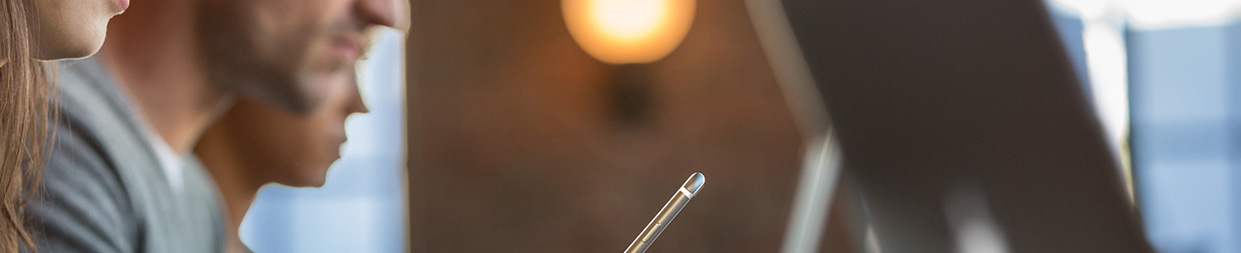
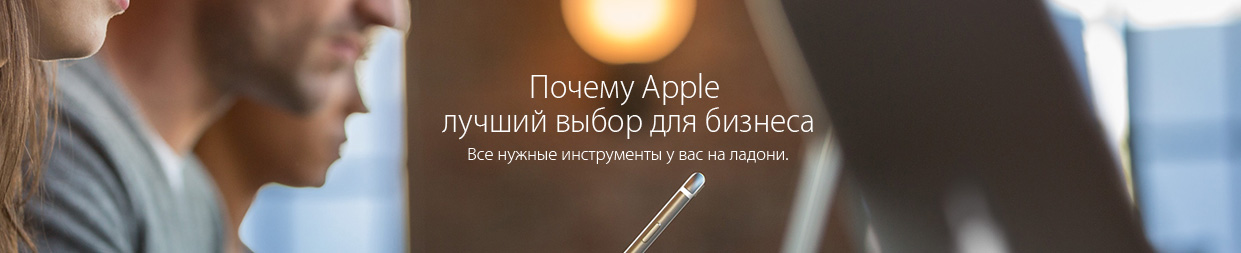
first release

Changed region(s): [[0.3368, 0.4427, 0.6737, 0.5257], [0.3674, 0.581, 0.643, 0.6364], [0.4287, 0.2767, 0.5818, 0.415]]

diff --git a/index.html b/index.html
@@ -4,21 +4,114 @@
   <meta charset="utf-8">
   <title>Почему Apple лучший выбор для бизнеса</title>
   
-  <link rel="stylesheet" href="css/normalize.css">
   <link rel="stylesheet" href="css/jquery.bxslider.css">
   <link rel="stylesheet" href="css/style.css">
 </head>
 <body>
   
-  <ul class="bxslider">
-    <li><img src="img/slideshow-slide1.jpg"></li>
-    <li><img src="img/slideshow-slide1.jpg"></li>
-    <li><img src="img/slideshow-slide1.jpg"></li>
-    <li><img src="img/slideshow-slide1.jpg"></li>
-  </ul>
+  <div class="p-container">
+    <!-- slider -->
+    <div class="p-slider">
+      <ul class="bxslider" id="js-bxslider">
+        <li><img src="img/slideshow-slide1.jpg"></li>
+        <li><img src="img/slideshow-slide1.jpg"></li>
+      </ul>
+    </div>
+    
+    <!-- content -->
+    <section class="p-content">
+      <div class="p-col-4">
+        <div class="p-content-lead">
+          <h1 class="p-content-header">iPad</h1>
+          <p class="p-content-text p-content-header-text">Новые горизонты вашего бизнеса</p>
+          <img src="img/ipad.png" alt="Ipad">
+          <div class="p-content-btn-wrap">
+            <a href="#" class="p-content-btn">Купить</a>
+          </div>
+        </div>
+        <p class="p-content-text">
+          Для любой компании найдётся iPad, который полностью ей подходит, будь то iPad Air или iPad mini с дисплеем Retina. Тонкий и лёгкий корпус, мощные функции, встроенные приложения, iOS и тысячи бизнес-приложений в App Store — iPad изменит ваш подход к работе.
+        </p>
+        <h3 class="p-content-title">Повысьте эффективность работы.</h3>
+        <p class="p-content-text">
+          iPad и отличные бизнес-приложения откроют для вас новые возможности и изменят способы работы. В App Store тысячи бизнес-приложений, и среди них обязательно найдётся то, которое облегчит выполнение любой вашей задачи.
+        </p>
+        <h3 class="p-content-title">Взгляните на работу по-новому.</h3>
+        <p class="p-content-text">
+          iPad меняет способы работы в различных отраслях и сферах деятельности, повышает производительность малых предприятий и крупнейших международных компаний.
+        </p>
+        <div class="p-content-img">
+          <img src="img/two-ipads.png" alt="Два iPad">
+        </div>
+        <p class="p-content-text">
+          Компании используют iPad и передовые приложения для разнообразных деловых задач: преобразуют большие объёмы аналитических данных в наглядные интерактивные графики, диаграммы и таблицы, ускоряют рабочие процессы и задачи во всех аспектах своей работы. А благодаря безопасному круглосуточному доступу к корпоративным системам через iPad у менеджеров есть информация об операциях, финансах и рынках в режиме реального времени, что позволяет мгновенно принимать обоснованные решения.
+        </p>
+      </div>
+      
+      <div class="p-col-4">
+        <div class="p-content-lead">
+          <h1 class="p-content-header">iOS</h1>
+          <p class="p-content-text p-content-header-text">- лучшая платформа для бизнеса.</p>
+          <img src="img/ios.png" alt="iOS">
+          <div class="p-content-btn-wrap">
+            <a href="#" class="p-content-btn">Каталог продуктов на iOS</a>
+          </div>
+        </div>
+        <p class="p-content-text">
+          Система iOS даёт корпоративным пользователям всё, что нужно для эффективной работы, где бы они ни находились. Интуитивно понятный интерфейс, мощные встроенные функции и безупречная надёжность — iOS создаёт условия для эффективной работы совершенно новыми способами.
+        </p>
+        <h3 class="p-content-title">Безопасность корпоративного уровня.</h3>
+        <p class="p-content-text">
+          Система iOS разработана на основе передовых технологий безопасности, которые дают полный контроль над устройствами, данными и приложениями. Многие функции безопасности включены по умолчанию и не требуют настройки. Другие разработаны так, чтобы легко вписаться в вашу инфраструктуру, не создавая пользователям никаких сложностей. Надёжная архитектура iOS обеспечивает полную защиту данных и возможности удобного доступа к корпоративным сетям.
+        </p>
+        <div class="p-content-img p-img-closer">
+          <img src="img/ipad-perspective.jpg" alt="iPad">
+        </div>
+        <h3 class="p-content-title">Полный контроль.</h3>
+        <p class="p-content-text">
+          В iOS есть все инструменты, необходимые для настройки, развёртывания и управления устройствами с iOS без ущерба для удобства пользователей. С iOS и встроенной поддержкой сторонних систем управления мобильными устройствами (MDM) вы можете управлять устройствами по беспроводной сети и настраивать службы ИТ, такие как корпоративная электронная почта, Wi-Fi, VPN и сертификаты.
+        </p>
+        <h3 class="p-content-title">Масштабируемое развёртывание.</h3>
+        <p class="p-content-text">
+          Развёртывание iPhone и iPad не требует никаких усилий от отдела ИТ — будь то десять устройств или десять тысяч, принадлежат ли они сотрудникам или вашей организации. iOS позволяет сотрудникам легко настроить устройства сразу после покупки. Они могут провести активацию, ввести основные настройки, подключиться к корпоративным службам и начать работу, не обращаясь за помощью к специалистам ИТ.
+        </p>
+      </div>
+      
+      <div class="p-col-4">
+        <div class="p-content-lead">
+          <h1 class="p-content-header">Mac</h1>
+          <p class="p-content-text p-content-header-text">для бизнеса</p>
+          <img src="img/mac.jpg" alt="Mac">
+          <div class="p-content-btn-wrap">
+            <a href="#" class="p-content-btn">Купить</a>
+          </div>
+        </div>
+        <p class="p-content-text">
+          Mac — это мощная, гибкая и надёжная система для вашего бизнеса. Он подойдёт для любых деловых задач: от отправки электронной почты и назначения встреч до создания потрясающих презентаций и документов — с первой минуты использования.
+        </p>
+        <h3 class="p-content-title">Каждый Mac создан для бизнеса</h3>
+        <p class="p-content-text">
+          От ноутбуков до настольных компьютеров — каждый Mac предлагает новейшие технологии, передовые функции и надёжную систему безопасности, чтобы отвечать потребностям вашего бизнеса.
+        </p>
+        <h3 class="p-content-title">Великолепное оборудование и отличная производительность.</h3>
+        <p class="p-content-text">
+          Качественное оборудование Mac — гарантия хороших результатов. В линейке Mac есть модели для любых компаний — от ноутбуков, которые работают без подзарядки весь день, до мощных настольных компьютеров. В каждом Mac используются передовые компоненты, которые обеспечивают плавную графику, быструю работу памяти и высокую производительность. 
+        </p>
+        <h3 class="p-content-title">Работает с Windows без малейших усилий.</h3>
+        <p class="p-content-text">
+          Если ваши сотрудники или клиенты работают с Windows, не беспокойтесь. Mac интегрируется практически в любую инфраструктуру — даже в сети Windows. Вы можете легко перенести все файлы, письма и контакты со старого PC на новый Mac, работать с документами Microsoft Office или запустить Windows на Mac через Boot Camp. В бизнес-приложениях iWork вы можете открывать и редактировать файлы Microsoft Office или экспортировать свои документы в форматы Word, PowerPoint и Excel.
+        </p>
+        <h3 class="p-content-title">Простой и интуитивно понятный.</h3>
+        <p class="p-content-text">
+          Простота использования позволяет сосредоточить всё внимание на основной работе. Вы можете быстро находить, создавать и отправлять документы и выполнять любые деловые задачи. Самые важные документы, события и контакты автоматически синхронизируются на всех ваших устройствах с iOS через iCloud. Например, добавьте событие в календаре на iPhone — и оно автоматически отобразится на вашем Mac.
+        </p>
+      </div>
+    </section>
+  </div>
+  
   
   <script src="https://ajax.googleapis.com/ajax/libs/jquery/1.12.0/jquery.min.js"></script>
-  <script src="js/jquery.bxslider.min.js"></script>
+  <script src="js/jquery.bxslider.js"></script>
   <script src="js/script.js"></script>
 </body>
 </html>

diff --git a/css/style.css b/css/style.css
@@ -4,7 +4,7 @@
     src: url('fonts/myriad-set-pro_medium.woff2') format('woff2'),
          url('fonts/myriad-set-pro_medium.woff') format('woff'),
          url('fonts/myriad-set-pro_medium.ttf') format('truetype');
-    font-weight: 300;
+    font-weight: 500;
     font-style: normal;
 }
 
@@ -13,6 +13,133 @@
     src: url('fonts/myriad-set-pro_thin.woff2') format('woff2'),
          url('fonts/myriad-set-pro_thin.woff') format('woff'),
          url('fonts/myriad-set-pro_thin.ttf') format('truetype');
-    font-weight: 500;
+    font-weight: 300;
     font-style: normal;
+}
+
+
+/* global classes */
+body {
+  font-family: "Myriad Set Pro", "Helvetica", "Arial", sans-serif;
+  font-weight: 300;
+}
+
+h1,
+h2,
+h3,
+h4,
+h5,
+h6,
+p,
+ul,
+li,
+blockquote,
+figure {
+  margin: 0;
+  padding: 0;
+}
+
+.p-container {
+  width: 1240px;
+  margin: 0 auto;
+}
+
+.p-col-4 {
+  width: 33.33333333%;
+  float: left;
+  border-right: 1px solid #e5e5e5;
+  box-sizing: border-box;
+  padding: 0 27px;
+}
+
+.p-col-4:last-child {
+  border-right: none;
+}
+
+
+/* headers */
+.p-content-header {
+  font-size: 34px;
+  font-weight: 300;
+}
+
+.p-content-title,
+.p-content-text {
+  font-size: 19px;
+}
+
+.p-content-title {
+  font-weight: 500;
+  padding-bottom: 25px;
+}
+
+.p-content-text {
+  line-height: 1.25;
+  padding-bottom: 14px;
+}
+
+.p-content-text:last-child {
+  padding-bottom: 0;
+}
+
+/* content */
+.p-content {
+  overflow: hidden;
+  padding-top: 14px;
+  padding-bottom: 41px;
+}
+.p-content-lead {
+  text-align: center;
+  padding-bottom: 42px;
+}
+
+.p-content-header {
+  font-weight: 300;
+  line-height: 34px;
+}
+
+.p-content-header-text {
+  width: 180px;
+  margin: 0 auto;
+  line-height: 1;
+  padding-bottom: 0;
+}
+
+.p-content-lead img {
+  margin-top: 26px;
+  margin-bottom: 23px;
+}
+
+.p-content-btn-wrap {
+  display: block;
+}
+
+.p-content-btn {
+  display: inline-block;
+  padding: 9px 21px 2px;
+  background-color: #e51839;
+  max-width: 80%;
+  border-radius: 8px;
+  text-align: center;
+  font-size: 20px;
+  letter-spacing: 0.065em;
+  text-decoration: none;
+  color: #fff;
+}
+
+.p-content-img {
+  padding-top: 14px;
+  padding-bottom: 22px;
+}
+
+.p-content-img img {
+  width: 100%;
+  height: auto;
+}
+
+.p-img-closer {
+  padding-top: 6px;
+  padding-bottom: 5px;
+  width: 90%;
+  margin: 0 auto;
 }

diff --git a/css/jquery.bxslider.css b/css/jquery.bxslider.css
@@ -30,21 +30,17 @@
 ===================================*/
 
 .bx-wrapper .bx-viewport {
-	box-shadow: 0 0 5px #ccc;
-	border:  5px solid #fff;
-	left: -5px;
 	background: #fff;
 	
 	/*fix other elements on the page moving (on Chrome)*/
 	-webkit-transform: translatez(0);
-    	-ms-transform: translatez(0);
     	transform: translatez(0);
 }
 
 .bx-wrapper .bx-pager,
 .bx-wrapper .bx-controls-auto {
 	position: absolute;
-	bottom: -30px;
+	bottom: -34px;
 	width: 100%;
 }
 
@@ -80,19 +76,22 @@
 }
 
 .bx-wrapper .bx-pager.bx-default-pager a {
-	background: #666;
+	background: #999;
 	text-indent: -9999px;
 	display: block;
-	width: 10px;
-	height: 10px;
-	margin: 0 5px;
+	width: 8px;
+	height: 8px;
+	margin: 0 10px;
 	outline: 0;
 	border-radius: 5px;
 }
 
-.bx-wrapper .bx-pager.bx-default-pager a:hover,
+.bx-wrapper .bx-pager.bx-default-pager a:hover {
+    background: #000;
+}
 .bx-wrapper .bx-pager.bx-default-pager a.active {
-	background: #000;
+	background: #fff;
+    border: 1px solid #ff3131;
 }
 
 /* DIRECTION CONTROLS (NEXT / PREV) */

diff --git a/js/script.js b/js/script.js
@@ -1,7 +1,10 @@
 $(document).ready(function() {
-  
-  $(document).ready(function(){
-    $('.bxslider').bxSlider();
+    var pGetSlider = $("#js-bxslider"),
+        setBxSlider = pGetSlider.bxSlider(),
+        pBxSliderImagesLength = pGetSlider.children("li").length - 2,
+        pBxSliderPager = pGetSlider.parent().next(".bx-controls");
+      
+    if (pBxSliderImagesLength == 1) {
+      pBxSliderPager.css("display", "none");
+    };
   });
-  
-});

diff --git a/js/jquery.bxslider.js b/js/jquery.bxslider.js
@@ -52,7 +52,7 @@
 		pagerCustom: null,
 
 		// CONTROLS
-		controls: true,
+		controls: false,
 		nextText: 'Next',
 		prevText: 'Prev',
 		nextSelector: null,
@@ -1339,5 +1339,6 @@
 		// returns the current jQuery object
 		return this;
 	}
+    
 
 })(jQuery);
